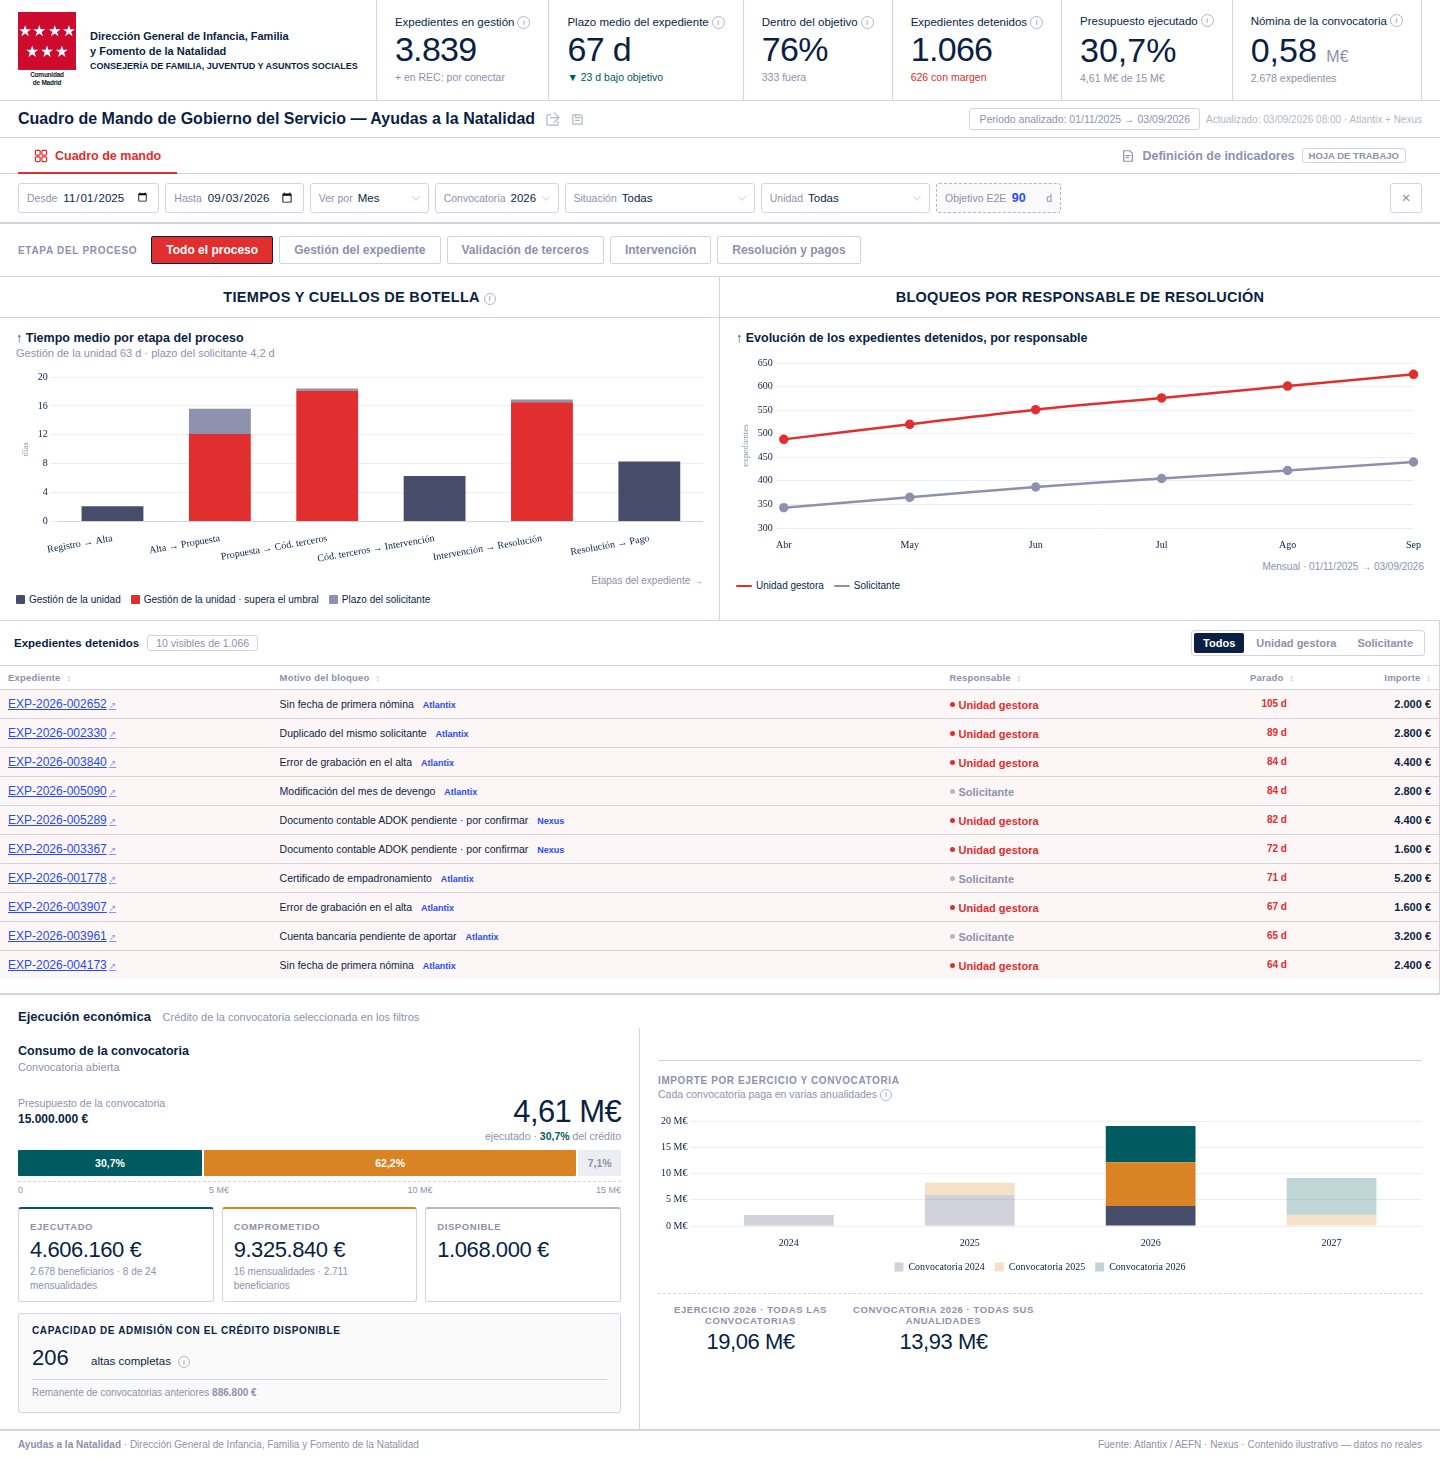
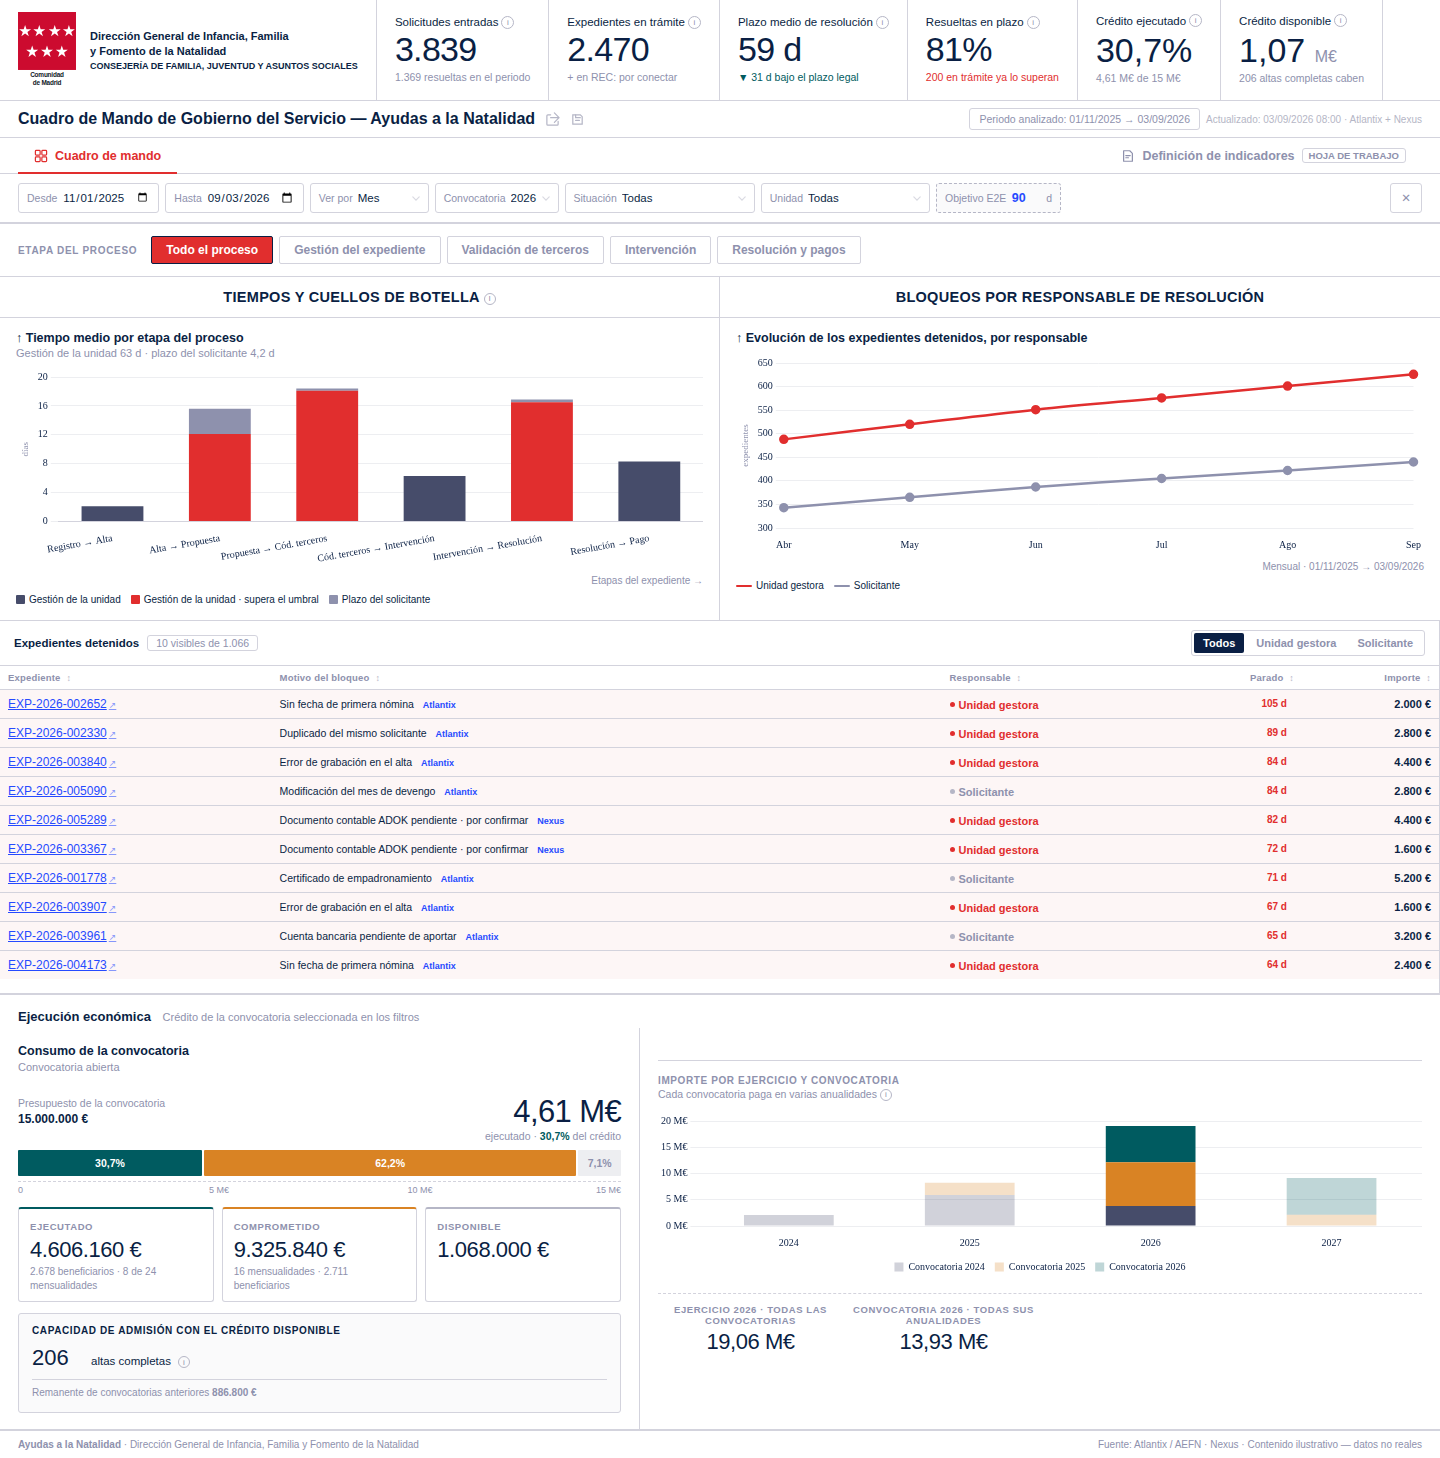
Natalidad v9: cabecera con indicadores globales del proceso (entradas, en trámite, plazo de resolución, en plazo, crédito)
Claude-Session: https://claude.ai/code/session_012PCcGQXYr4PR8xb2pBrhox

Changed region(s): [[0.375, 0.0, 0.7188, 0.0617], [0.7188, 0.0, 0.9688, 0.0617], [0.2812, 0.0, 0.3438, 0.0617]]

diff --git a/mockups/MockupNatalidad_v9.html b/mockups/MockupNatalidad_v9.html
@@ -1346,11 +1346,12 @@ const STAGES = {
 
 /* ════════ KPIs GLOBALES (no cambian: son del servicio completo) ════════ */
 const KPI_GLOBAL = [
-  ['Expedientes en gestión','0','na','—','gExp'],
-  ['Plazo medio del expediente','0 d','bad','—','gPlazo'],
-  ['Dentro del objetivo','0%','warn','—','gCumpl'],
-  /* detenidos = el total de la cola, el mismo número que la tabla de abajo */
-  ['Expedientes detenidos','0','bad','—','gBloq'],
+  /* indicadores globales del proceso, comunes a cualquier ayuda tramitada en Atlantix:
+     cuánto entra, cuánto queda, cuánto se tarda en resolver y si se cumple el plazo legal */
+  ['Solicitudes entradas','0','na','—','gEnt'],
+  ['Expedientes en trámite','0','na','—','gExp'],
+  ['Plazo medio de resolución','0 d','bad','—','gPlazo'],
+  ['Resueltas en plazo','0%','warn','—','gCumpl'],
 ];
 /* Cada indicador explica de dónde sale su número al pasar el ratón; así la cifra
    puede quedarse sola en la pantalla sin perder el cómo se ha calculado. */
@@ -1358,6 +1359,12 @@ const TIP = {
  'Expedientes en gestión':'Expedientes de la convocatoria seleccionada que todavía no han llegado al pago, dentro del rango de fechas elegido. Debajo, las solicitudes que siguen en REC sin expediente abierto: se mostrarán cuando se conecte REC, hoy no están en Atlantix.',
  'Plazo medio del expediente':'Mientras REC no esté conectado se mide desde la recepción en AFN, no desde la entrada en registro: la fecha de REC no está en Atlantix. Definición objetivo: días desde la entrada de la solicitud en el registro del órgano competente hasta el pago, medidos sobre los expedientes que ya han llegado al pago. La mediana va debajo porque el promedio lo estiran unos pocos casos largos.',
  'Plazo medio de la etapa':'Días medios que consume esta etapa, y qué parte representa del plazo total del expediente.',
+ 'Solicitudes entradas':'Solicitudes recepcionadas en Atlantix dentro del rango de fechas. Debajo, las que se han resuelto en el mismo periodo: si entran más de las que se resuelven, el pendiente crece.',
+ 'Expedientes en trámite':'Expedientes recepcionados que todavía no tienen resolución. Debajo, las solicitudes que siguen en REC sin expediente abierto: se mostrarán cuando se conecte REC, hoy no están en Atlantix.',
+ 'Plazo medio de resolución':'Días desde la entrada en el registro del órgano competente hasta la resolución, sobre los expedientes ya resueltos. Plazo legal: 90 días. Mientras REC no esté conectado se mide desde la recepción en AFN.',
+ 'Resueltas en plazo':'Expedientes resueltos dentro del plazo legal fijado en los filtros (90 días por defecto). Debajo, los que siguen en trámite y ya lo han superado: son los que más urge mover.',
+ 'Crédito ejecutado':'Crédito ya pagado sobre el total de la convocatoria seleccionada en los filtros.',
+ 'Crédito disponible':'Crédito de la convocatoria que no está ni pagado ni comprometido. Debajo, cuántas altas completas caben: disponible entre lo que cuesta una ayuda entera (24 mensualidades).',
  'Dentro del objetivo':'Expedientes ya terminados que se resolvieron dentro del objetivo fijado en la barra de filtros. Por defecto es el plazo máximo normativo: 90 días desde la entrada de la solicitud en el registro del órgano competente.',
  'Dentro de objetivo':'Expedientes ya terminados cuyo plazo no superó el objetivo fijado en la barra de filtros. «En riesgo» son los que se acercan a él sin haberlo superado.',
  'Expedientes detenidos':'Expedientes sin ningún cambio de estado desde hace más días de lo razonable para su etapa. Debajo, los que la unidad puede desatascar por sí misma. Los del solicitante son casi todos requerimientos: de 807 requeridos en la revisión, 575 subsanan y 232 desisten.',
@@ -1575,10 +1582,10 @@ function renderCM(){
   /* los dos indicadores variables de cabecera siguen a la convocatoria elegida */
   const C = CONV[FCM.conv] || CONV['2026'];
   document.getElementById('kpiConv').innerHTML = ksHtml([
-    ['Presupuesto ejecutado', (C.eje/C.tot*100).toFixed(1).replace('.',',')+'%','ok',
+    ['Crédito ejecutado', (C.eje/C.tot*100).toFixed(1).replace('.',',')+'%','ok',
      (C.eje/1e6).toFixed(2).replace('.',',')+' M€ de '+(C.tot/1e6).toFixed(0)+' M€'],
-    ['Nómina de la convocatoria', ((C.cobrando*MENS)/1e6).toFixed(2).replace('.',',')+' <span class="u">M€</span>','na',
-     C.agotada ? 'sin pagos pendientes' : nfmt(C.cobrando)+' expedientes'],
+    ['Crédito disponible', ((C.tot-C.eje-C.com)/1e6).toFixed(2).replace('.',',')+' <span class="u">M€</span>','na',
+     C.admite ? nfmt(Math.floor((C.tot-C.eje-C.com)/COSTE_COMPLETO))+' altas completas caben' : 'cerrada a altas nuevas'],
   ], true);
 
   /* ── vacío: el filtro es real y a veces no queda nada que mirar ── */
@@ -1589,7 +1596,7 @@ function renderCM(){
       ? '<b>La convocatoria 2024 no tiene pagos pendientes.</b> No quedan expedientes en tramitación: su crédito ya se agotó y los pagos se cerraron. Su ejecución sigue disponible en <em>Ejecución económica</em>.'
       : '<b>Ningún expediente cumple los filtros seleccionados.</b> Prueba a quitar alguno.';
     document.getElementById('cmBody').style.display='none';
-    set('gExp','0'); set('gBloq','0');
+    set('gExp','0'); set('gEnt','0'); set('gEntD','');
     set('gPlazo','<span style="color:var(--g400);">—</span>');
     set('gCumpl','<span style="color:var(--g400);">—</span>');
     set('gExpD',''); set('gBloqD','');
@@ -1619,6 +1626,7 @@ function renderCM(){
   const dentroPct = Math.round(dentroN/nRef*100);
   const riesgoN   = REF.filter(e => refDur(e) > objetivo*0.85 && refDur(e) <= objetivo).length;
   if(stageKey==='all'){ PLAZO_ACT = plazoExp; CUMPL_ACT = dentroPct; }
+  const BT_ = BT;
 
   /* ── detenidos ── */
   const det = P.filter(e=>e.det);
@@ -1627,18 +1635,27 @@ function renderCM(){
   const edad = det.length ? Math.round(media(det.map(e=>e.dParado))) : 0;
   const edadMax = det.length ? Math.max(...det.map(e=>e.dParado)) : 0;
 
-  /* ── KPIs de cabecera ── */
-  set('gExp', nfmt(n));
+  /* ── KPIs de cabecera · globales: no dependen de la etapa seleccionada ──
+     Resuelto = ha pasado Intervención → Resolución. El plazo legal (90 d, art. 21
+     LPAC) se mide hasta la resolución, no hasta el pago. */
+  const RES = BT.filter(e => e.hasta === 6), VIV = BT.filter(e => e.hasta < 6);
+  const diasRes = e => suma(e.t.slice(0,5));
+  const plazoRes = RES.length ? Math.round(media(RES.map(diasRes))) : 0;
+  const enPlazo  = RES.filter(e => diasRes(e) <= objetivo).length;
+  const pctPlazo = RES.length ? Math.round(enPlazo/RES.length*100) : 0;
+  const vivFuera = VIV.filter(e => totDias(e) > objetivo).length;
+  set('gEnt', nfmt(BT.length));
+  set('gEntD', nfmt(RES.length)+' resueltas en el periodo');
+  set('gExp', nfmt(VIV.length));
   set('gExpD','+ en REC: por conectar');
-  set('gPlazo', plazoExp ? plazoExp+' d' : '—');
-  set('gPlazoD', plazoExp>OBJ_E2E ? '▲ +'+(plazoExp-OBJ_E2E)+' d sobre objetivo'
-                                  : '▼ '+(OBJ_E2E-plazoExp)+' d bajo objetivo');
+  set('gPlazo', plazoRes ? plazoRes+' d' : '—');
+  set('gPlazoD', plazoRes>objetivo ? '▲ +'+(plazoRes-objetivo)+' d sobre el plazo legal'
+                                   : '▼ '+(objetivo-plazoRes)+' d bajo el plazo legal');
   { const d=document.getElementById('gPlazoD');
-    if(d) d.style.setProperty('color', plazoExp>OBJ_E2E ? 'var(--cred)' : 'var(--green)', 'important'); }
-  set('gCumpl', dentroPct+'%');
-  set('gCumplD', nfmt(nRef-dentroN)+' fuera');
-  set('gBloq', nfmt(det.length));
-  set('gBloqD', det.length ? nfmt(adm.length)+' con margen' : '');
+    if(d) d.style.setProperty('color', plazoRes>objetivo ? 'var(--cred)' : 'var(--green)', 'important'); }
+  set('gCumpl', pctPlazo+'%');
+  set('gCumplD', vivFuera ? nfmt(vivFuera)+' en trámite ya lo superan' : 'ninguno en trámite lo supera');
+  { const d=document.getElementById('gCumplD'); if(d) d.style.setProperty('color', vivFuera ? 'var(--cred)' : '', 'important'); }
 
   /* ── sección 1 · variantes ── */
   const vs = ['est','req','ter','mod','otr'].map(k => [k, P.filter(e=>e.vr===k).length]);
@@ -2548,11 +2565,15 @@ const DFILAS = [
   'Presentación en REC','Apertura de expediente en AFN','Registro / REC', 1],
  ['Requeridas, subsanadas y desistidas','Expedientes requeridos en la revisión y cómo terminan',
   'Requerimiento','Subsanación o desistimiento','—', 1],
- ['Expedientes en gestión','Expedientes con la solicitud recepcionada que no han llegado al pago',
-  'Solicitud recepcionada','Pago','Vademécum · CURSO', 1],
- ['Plazo medio del expediente','Días entre la entrada en registro y el pago, solo sobre los ya pagados',
-  'Entrada en el registro del órgano competente','Pago','—', 1],
- ['Dentro del objetivo','Expedientes resueltos dentro del objetivo (por defecto, 90 días)',
+ ['Solicitudes entradas','Solicitudes recepcionadas en el periodo, y resueltas en el mismo periodo',
+  'Solicitud recepcionada','—','Registro / REC', 1],
+ ['Crédito disponible','Crédito sin pagar ni comprometer, y altas completas que caben',
+  'Crédito de la convocatoria','Fecha de corte','Gestión económica', 1],
+ ['Expedientes en trámite','Expedientes con la solicitud recepcionada que todavía no tienen resolución',
+  'Solicitud recepcionada','Resolución','Vademécum · CURSO', 1],
+ ['Plazo medio de resolución','Días entre la entrada en registro y la resolución, solo sobre los ya resueltos',
+  'Entrada en el registro del órgano competente','Resolución','Plazo legal · 90 días', 1],
+ ['Resueltas en plazo','Resueltos dentro del plazo legal (90 días), y en trámite que ya lo superan',
   'Entrada en el registro del órgano competente','Resolución','Plazo máximo normativo · 90 días', 1],
  ['Expedientes detenidos','Sin cambio de estado desde hace más días de lo razonable para su etapa',
   'Último cambio de estado','Hoy','—', 1],
@@ -2563,7 +2584,7 @@ const DFILAS = [
  ['Beneficiarias en alta','No contemplado todavía','—','—','Vademécum', 1],
  ['Beneficiarias en mantenimiento','No contemplado todavía','—','—','Vademécum', 1],
  ['Beneficiarias en baja','No contemplado todavía','—','—','Vademécum', 1],
- ['Presupuesto ejecutado','Crédito pagado sobre el total de la convocatoria',
+ ['Crédito ejecutado','Crédito pagado sobre el total de la convocatoria',
   'Documento contable','Pago','Nexus · gestión económica', 1],
  ['Nómina de la convocatoria','Importe de los pagos vivos de la convocatoria',
   'Resolución','Pago en nómina','Nexus · gestión económica', 1],
